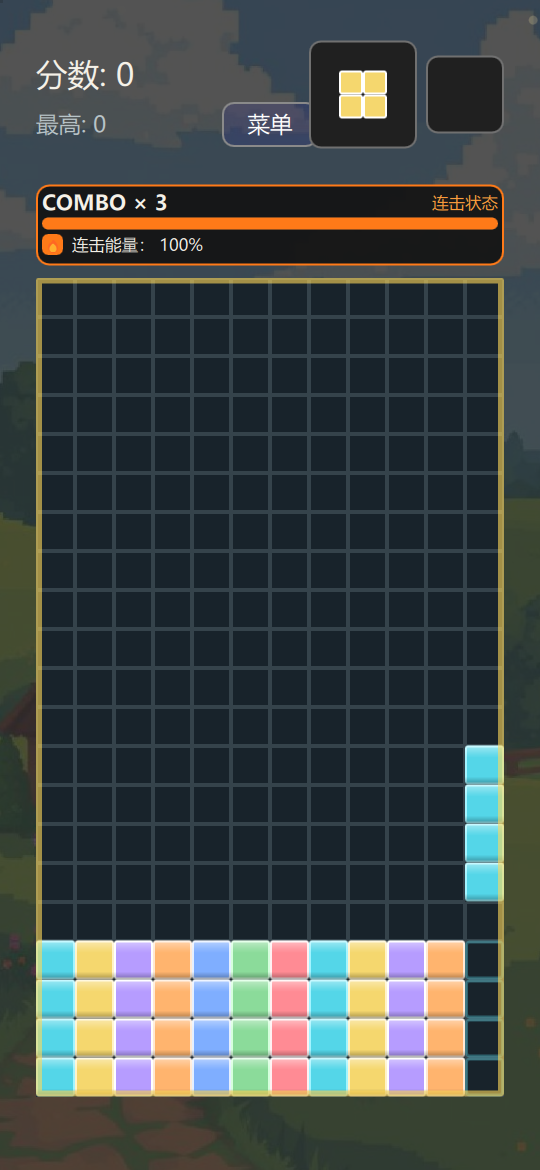
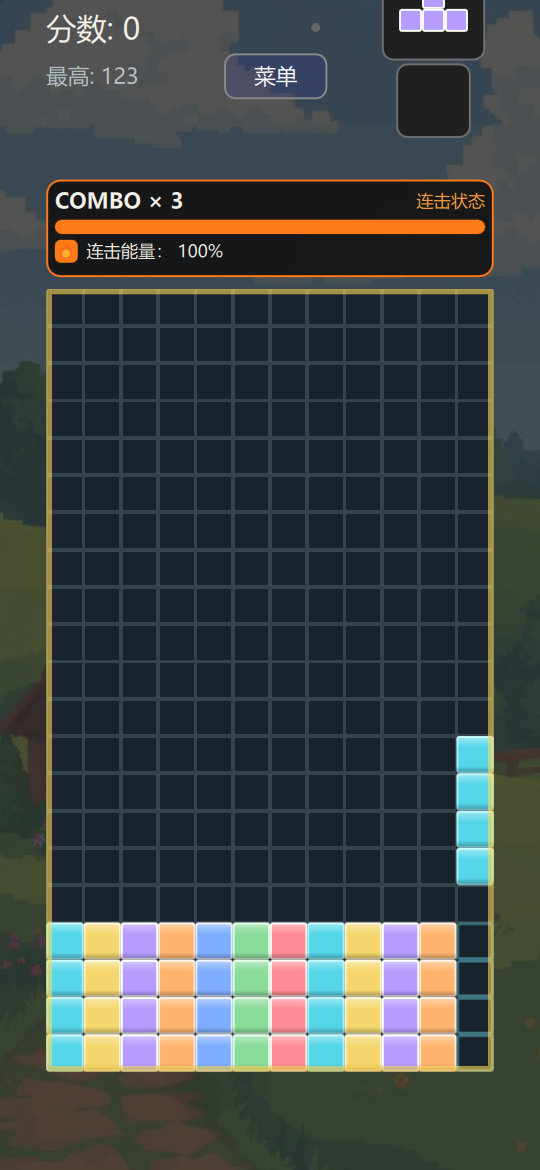
手势模式改回整体上移方案：恢复暂存框下叠/能量卡68px/菜单72px原排列（撤销并排紧凑化——中列宽度不足会遮挡菜单键），仅将 boardTopOffset 手势模式 20→-36 实现整体上移56px；demo gesture 场景截图验证

diff --git a/Main.qml b/Main.qml
@@ -1989,8 +1989,8 @@ ApplicationWindow {
         }
     }
 
-    // 棋盘下移量：手势模式顶部元素已紧凑化，棋盘整体上移给拇指留余量
-    readonly property int boardTopOffset: opMode === "gestures" ? 0 : 8
+    // 棋盘下移量：手势模式整体上移（负值=上移），给棋盘底部留出拇指余量
+    readonly property int boardTopOffset: opMode === "gestures" ? -36 : 8
 
     Column {
         id: mainColumn
@@ -2118,8 +2118,8 @@ ApplicationWindow {
                 }
 
                 Rectangle {
-                    width: 64
-                    height: 30
+                    width: 72
+                    height: 32
                     radius: 8
                     color: "#2f2f2fb0"
                     border.width: 1
@@ -2150,18 +2150,18 @@ ApplicationWindow {
                 }
             }
 
-            // 右侧：下一个方块预览；手势模式暂存框并列其右（紧凑化，棋盘上移）
-            Row {
+            // 右侧：下一个方块预览（标签在框外上方）
+            Column {
                 id: nextPreviewColumn
-                spacing: 6
+                spacing: 2
+                width: 84
                 anchors.verticalCenter: parent.verticalCenter
-                width: opMode === "gestures" ? nextPreview.width + holdPreview.width + spacing
-                                              : nextPreview.width
 
                 Rectangle {
                     id: nextPreview
                     width: 4 * 18
                     height: 4 * 18
+                    anchors.horizontalCenter: parent.horizontalCenter
                     radius: 8
                     color: "#202020"
                     border.color: "#707070"
@@ -2195,11 +2195,10 @@ ApplicationWindow {
 
                 // 暂存指示（手势模式下可见：上滑暂存/调出，用过置灰）
                 Rectangle {
-                    id: holdPreview
                     visible: opMode === "gestures"
                     width: 4 * 13
                     height: 4 * 13
-                    anchors.verticalCenter: parent.verticalCenter
+                    anchors.horizontalCenter: parent.horizontalCenter
                     radius: 8
                     color: "#202020"
                     border.color: canHold ? "#707070" : "#3a3a3a"
@@ -2237,37 +2236,37 @@ ApplicationWindow {
 
         Item {
             width: 1
-            height: 8
+            height: 13
         }
 
         // 游戏画布区域
 
-        // 连击能量槽卡片：横铺棋盘上方（紧凑化：54px，消行回满 / 随时间衰减）
+        // 连击能量槽卡片：横铺棋盘上方（连击 ≥2 显示），消行回满 / 随时间衰减
         Rectangle {
             id: energyCard
             visible: true                          // 常驻：无连击时槽为空
             width: gameBoard.width
-            height: 54
-            radius: 9
+            height: 68
+            radius: 10
             color: "#F0141414"
             border.color: comboEnergy > 25 ? "#ff7a18" : "#ff4444"
             border.width: 1
 
             Column {
                 anchors.fill: parent
-                anchors.margins: 4
-                spacing: 3
+                anchors.margins: 6
+                spacing: 4
 
                 Item {
                     width: parent.width
-                    height: 15
+                    height: 18
 
                     Text {
                         anchors.left: parent.left
                         anchors.verticalCenter: parent.verticalCenter
                         text: "COMBO × " + comboStreak
                         color: "#f5f1e8"
-                        font.pixelSize: 14
+                        font.pixelSize: 15
                         font.bold: true
                     }
                     Text {
@@ -2275,47 +2274,46 @@ ApplicationWindow {
                         anchors.verticalCenter: parent.verticalCenter
                         text: "连击状态"
                         color: "#ff9e3d"
-                        font.pixelSize: 11
+                        font.pixelSize: 12
                     }
                 }
 
                 Rectangle {
                     width: parent.width
-                    height: 8
-                    radius: 4
+                    height: 10
+                    radius: 5
                     color: "#333333"
                     Rectangle {
                         width: parent.width * comboEnergy / 100
                         height: parent.height
-                        radius: 4
+                        radius: 5
                         color: comboEnergy > 25 ? "#ff7a18" : "#ff4444"
                     }
                 }
 
                 Item {
                     width: parent.width
-                    height: 14
+                    height: 16
 
                     Rectangle {
-                        width: 14
-                        height: 14
+                        width: 16
+                        height: 16
                         radius: 4
                         anchors.left: parent.left
-                        anchors.verticalCenter: parent.verticalCenter
                         color: "#ff7a18"
                         Text {
                             anchors.centerIn: parent
                             text: "🔥"
-                            font.pixelSize: 9
+                            font.pixelSize: 10
                         }
                     }
                     Text {
                         anchors.left: parent.left
-                        anchors.leftMargin: 20
+                        anchors.leftMargin: 22
                         anchors.verticalCenter: parent.verticalCenter
                         text: "连击能量： " + Math.round(comboEnergy) + "%"
                         color: "#f5f1e8"
-                        font.pixelSize: 11
+                        font.pixelSize: 12
                     }
                 }
             }

diff --git a/leaderboard/apk/patch/Main.qml b/leaderboard/apk/patch/Main.qml
@@ -1989,8 +1989,8 @@ ApplicationWindow {
         }
     }
 
-    // 棋盘下移量：手势模式顶部元素已紧凑化，棋盘整体上移给拇指留余量
-    readonly property int boardTopOffset: opMode === "gestures" ? 0 : 8
+    // 棋盘下移量：手势模式整体上移（负值=上移），给棋盘底部留出拇指余量
+    readonly property int boardTopOffset: opMode === "gestures" ? -36 : 8
 
     Column {
         id: mainColumn
@@ -2118,8 +2118,8 @@ ApplicationWindow {
                 }
 
                 Rectangle {
-                    width: 64
-                    height: 30
+                    width: 72
+                    height: 32
                     radius: 8
                     color: "#2f2f2fb0"
                     border.width: 1
@@ -2150,18 +2150,18 @@ ApplicationWindow {
                 }
             }
 
-            // 右侧：下一个方块预览；手势模式暂存框并列其右（紧凑化，棋盘上移）
-            Row {
+            // 右侧：下一个方块预览（标签在框外上方）
+            Column {
                 id: nextPreviewColumn
-                spacing: 6
+                spacing: 2
+                width: 84
                 anchors.verticalCenter: parent.verticalCenter
-                width: opMode === "gestures" ? nextPreview.width + holdPreview.width + spacing
-                                              : nextPreview.width
 
                 Rectangle {
                     id: nextPreview
                     width: 4 * 18
                     height: 4 * 18
+                    anchors.horizontalCenter: parent.horizontalCenter
                     radius: 8
                     color: "#202020"
                     border.color: "#707070"
@@ -2195,11 +2195,10 @@ ApplicationWindow {
 
                 // 暂存指示（手势模式下可见：上滑暂存/调出，用过置灰）
                 Rectangle {
-                    id: holdPreview
                     visible: opMode === "gestures"
                     width: 4 * 13
                     height: 4 * 13
-                    anchors.verticalCenter: parent.verticalCenter
+                    anchors.horizontalCenter: parent.horizontalCenter
                     radius: 8
                     color: "#202020"
                     border.color: canHold ? "#707070" : "#3a3a3a"
@@ -2237,37 +2236,37 @@ ApplicationWindow {
 
         Item {
             width: 1
-            height: 8
+            height: 13
         }
 
         // 游戏画布区域
 
-        // 连击能量槽卡片：横铺棋盘上方（紧凑化：54px，消行回满 / 随时间衰减）
+        // 连击能量槽卡片：横铺棋盘上方（连击 ≥2 显示），消行回满 / 随时间衰减
         Rectangle {
             id: energyCard
             visible: true                          // 常驻：无连击时槽为空
             width: gameBoard.width
-            height: 54
-            radius: 9
+            height: 68
+            radius: 10
             color: "#F0141414"
             border.color: comboEnergy > 25 ? "#ff7a18" : "#ff4444"
             border.width: 1
 
             Column {
                 anchors.fill: parent
-                anchors.margins: 4
-                spacing: 3
+                anchors.margins: 6
+                spacing: 4
 
                 Item {
                     width: parent.width
-                    height: 15
+                    height: 18
 
                     Text {
                         anchors.left: parent.left
                         anchors.verticalCenter: parent.verticalCenter
                         text: "COMBO × " + comboStreak
                         color: "#f5f1e8"
-                        font.pixelSize: 14
+                        font.pixelSize: 15
                         font.bold: true
                     }
                     Text {
@@ -2275,47 +2274,46 @@ ApplicationWindow {
                         anchors.verticalCenter: parent.verticalCenter
                         text: "连击状态"
                         color: "#ff9e3d"
-                        font.pixelSize: 11
+                        font.pixelSize: 12
                     }
                 }
 
                 Rectangle {
                     width: parent.width
-                    height: 8
-                    radius: 4
+                    height: 10
+                    radius: 5
                     color: "#333333"
                     Rectangle {
                         width: parent.width * comboEnergy / 100
                         height: parent.height
-                        radius: 4
+                        radius: 5
                         color: comboEnergy > 25 ? "#ff7a18" : "#ff4444"
                     }
                 }
 
                 Item {
                     width: parent.width
-                    height: 14
+                    height: 16
 
                     Rectangle {
-                        width: 14
-                        height: 14
+                        width: 16
+                        height: 16
                         radius: 4
                         anchors.left: parent.left
-                        anchors.verticalCenter: parent.verticalCenter
                         color: "#ff7a18"
                         Text {
                             anchors.centerIn: parent
                             text: "🔥"
-                            font.pixelSize: 9
+                            font.pixelSize: 10
                         }
                     }
                     Text {
                         anchors.left: parent.left
-                        anchors.leftMargin: 20
+                        anchors.leftMargin: 22
                         anchors.verticalCenter: parent.verticalCenter
                         text: "连击能量： " + Math.round(comboEnergy) + "%"
                         color: "#f5f1e8"
-                        font.pixelSize: 11
+                        font.pixelSize: 12
                     }
                 }
             }
